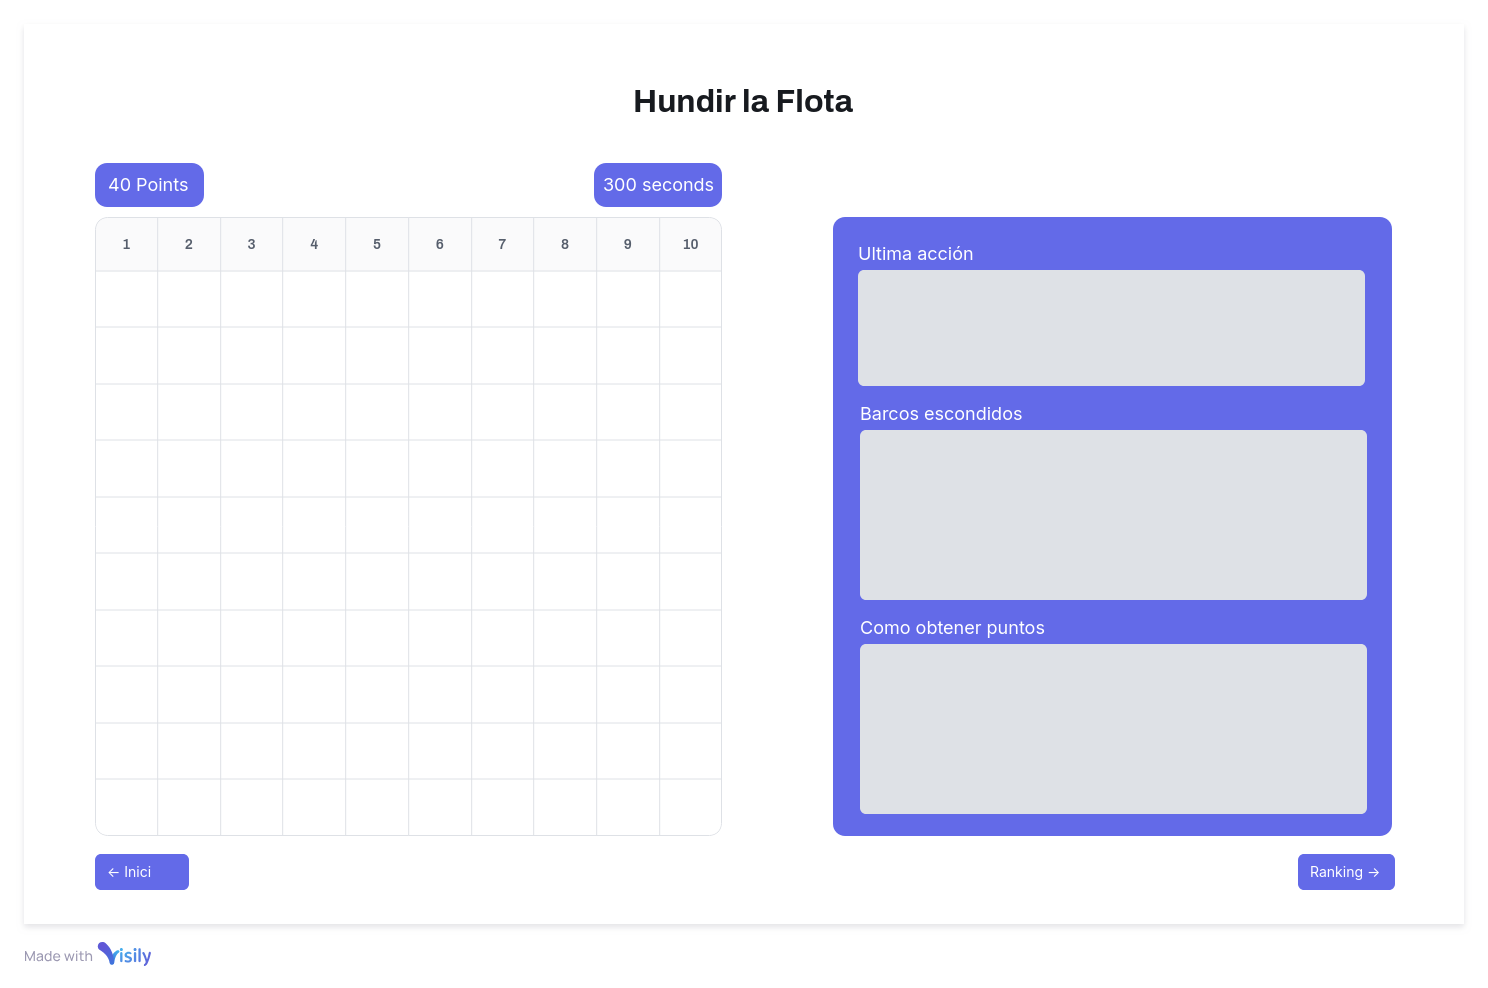
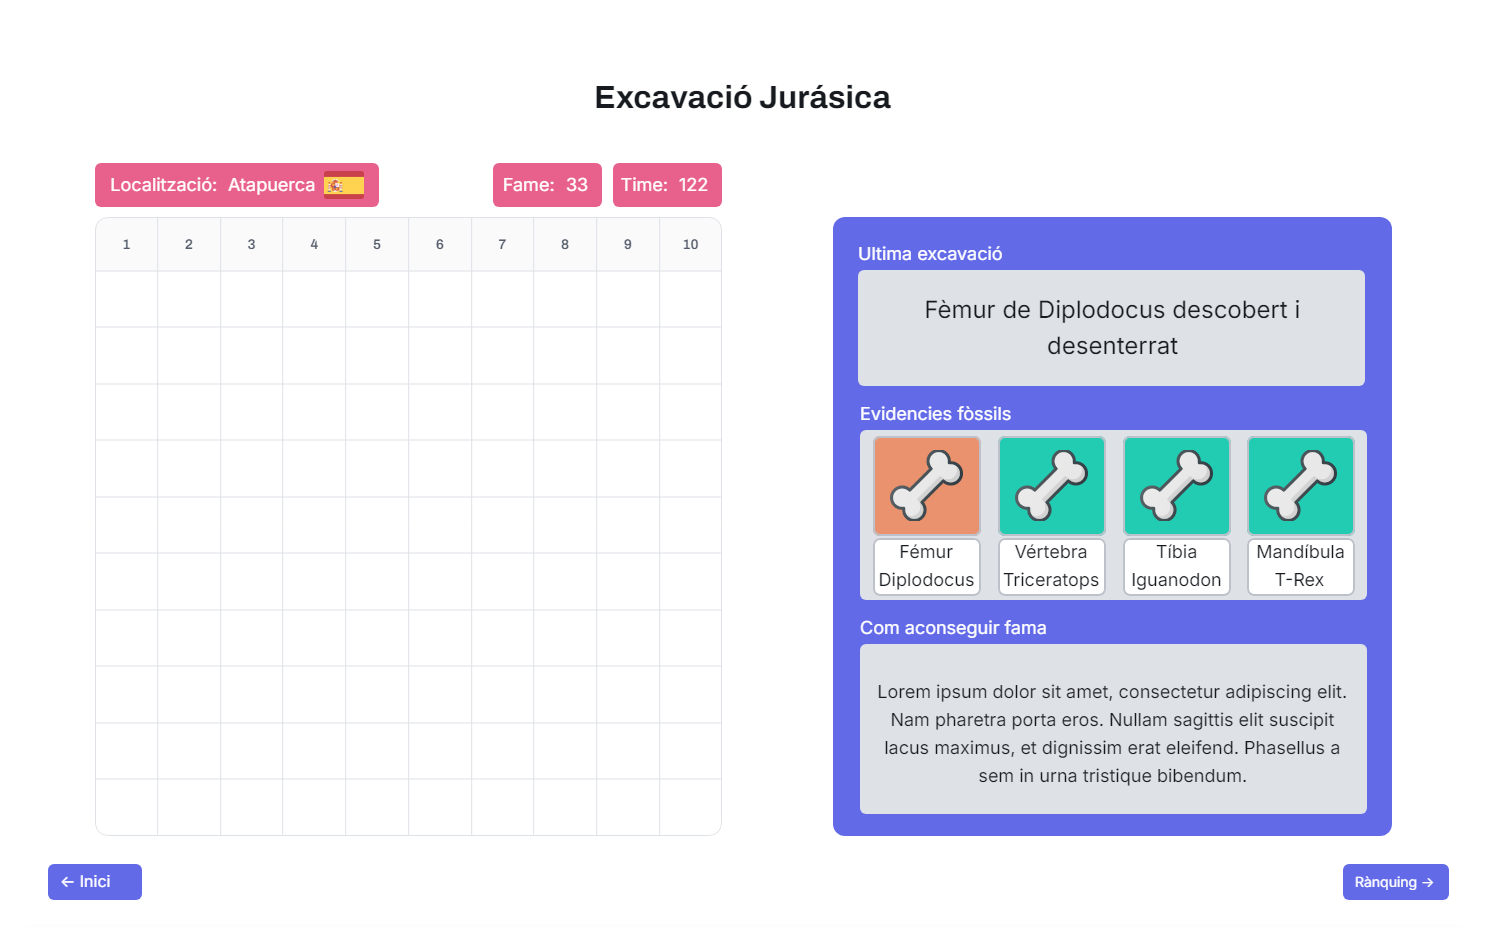
Wireframes  i descripció actualitzats amb la tematica del joc

diff --git a/README.md b/README.md
@@ -12,7 +12,7 @@ La primera parada en aquesta aventura! A la **Pàgina d'inici**, podràs:
 - Accedir al **Rànquing d'Arqueòlegs** per veure qui són els més prestigiosos.
 - Iniciar una nova excavació fent clic al botó de **"Començar Joc"**.
 
-![Imatge 1: Pantalla d'Inici](./images/Main_page.png) <!-- Aquí pots afegir l'enllaç a la imatge -->
+![Imatge 1: Pantalla d'Inici](./images/Mainpage.png) <!-- Aquí pots afegir l'enllaç a la imatge -->
 
 ### 2. Pàgina de Joc
 Aquí és on comença la veritable acció! En la **Pàgina de Joc** podràs:
@@ -28,14 +28,14 @@ Aquí és on comença la veritable acció! En la **Pàgina de Joc** podràs:
 ### 3. Rànquing d'Arqueòlegs
 Aquesta és la pàgina dels campions! En el **Rànquing d'Arqueòlegs** podràs:
 - Veure el **rànquing** amb els arqueòlegs més famosos i amb més fama acumulada.
-- Comprovar si el teu nom ha arribat a la llista dels **Millors Arqueòlegs del Món**!
+- Comprovar si el teu nom ha arribat a les primeres posicions!
 
 ![Imatge 3: Rànquing d'Arqueòlegs](./images/Hall_of_fame.png)
 
 ---
 
-## 🌐 Diagrama General del Wireframe
+### 🌐 Diagrama General del Wireframe
 
 A continuació, es mostra un **diagrama general** del wireframe del joc, incloent les relacions entre les diferents pàgines i els botons:
 
-![Diagrama General del Wireframe](./images/wireframe.png.png) <!-- Aquí afegeix l'enllaç de la imatge del wireframe -->
+![Diagrama General del Wireframe](./images/wireframe.png)
